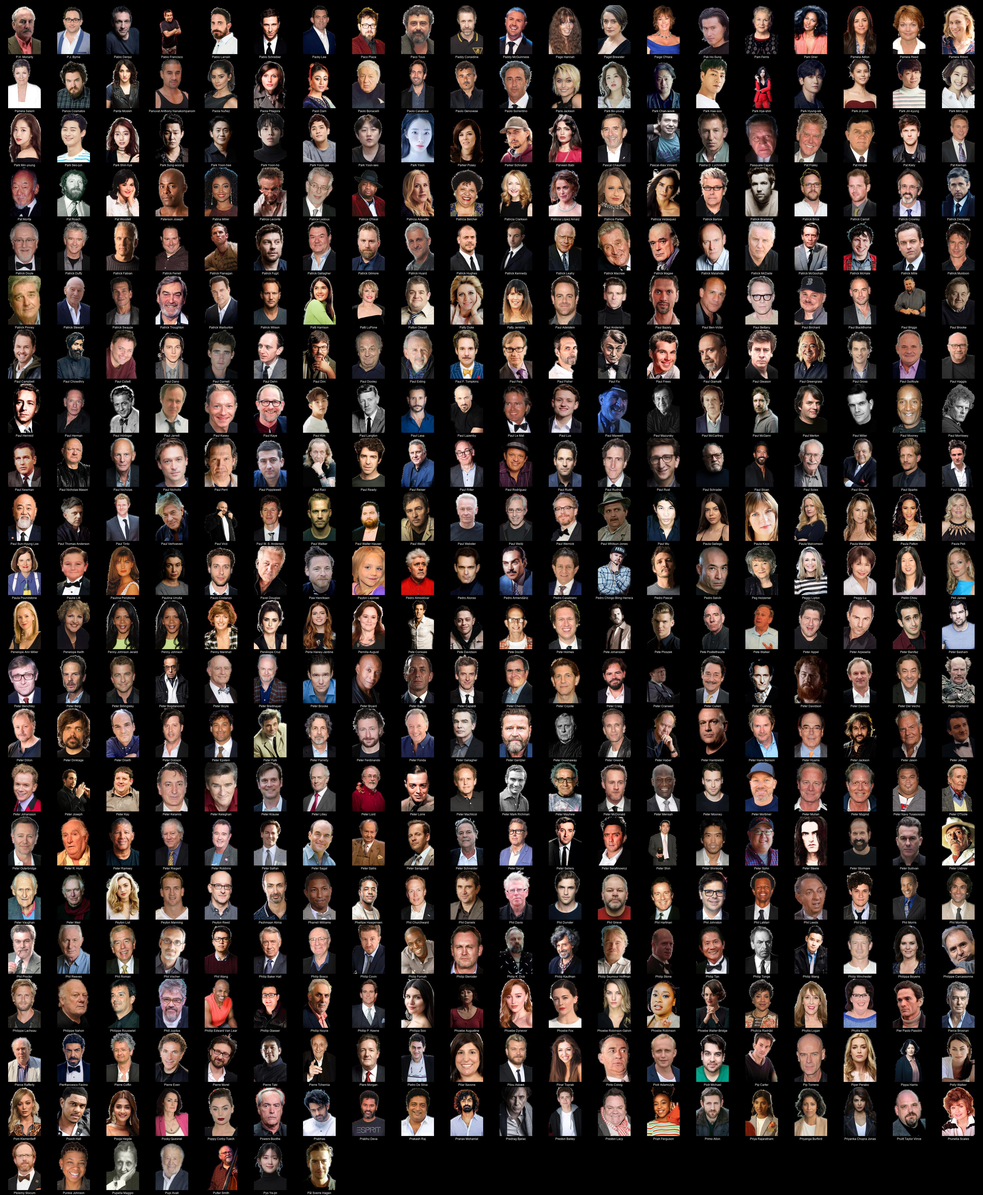
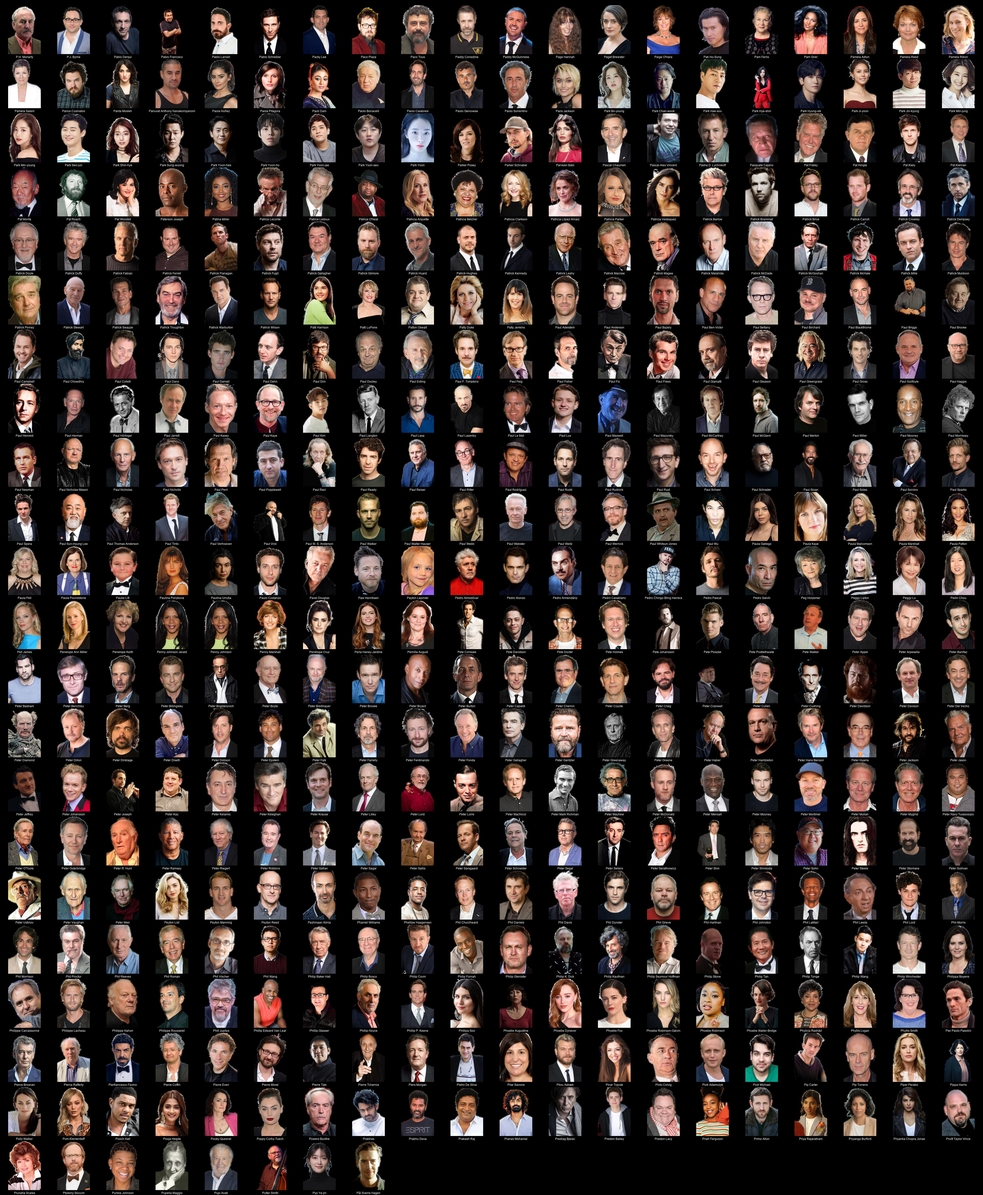
more grids

Changed region(s): [[0.0, 0.3728, 1.0, 1.0]]

diff --git a/M/README.md b/M/README.md
@@ -1,4 +1,4 @@
-# Kometa People Images - Transparent (transparent) - M (1024 Images)
+# Kometa People Images - Transparent (transparent) - M (1031 Images)
 ![Grid](grid.jpg)
 
 * [M'laah Kaur Singh](https://raw.githubusercontent.com/Kometa-Team/People-Images-transparent/master/M/Images/M%27laah%20Kaur%20Singh.png)
@@ -58,6 +58,7 @@
 * [Mahesh Babu](https://raw.githubusercontent.com/Kometa-Team/People-Images-transparent/master/M/Images/Mahesh%20Babu.png)
 * [Mahesh Balraj](https://raw.githubusercontent.com/Kometa-Team/People-Images-transparent/master/M/Images/Mahesh%20Balraj.png)
 * [Mahesh Bhatt](https://raw.githubusercontent.com/Kometa-Team/People-Images-transparent/master/M/Images/Mahesh%20Bhatt.png)
+* [Mahiro Maeda](https://raw.githubusercontent.com/Kometa-Team/People-Images-transparent/master/M/Images/Mahiro%20Maeda.png)
 * [Mahito Tsujimura](https://raw.githubusercontent.com/Kometa-Team/People-Images-transparent/master/M/Images/Mahito%20Tsujimura.png)
 * [Mai Ling](https://raw.githubusercontent.com/Kometa-Team/People-Images-transparent/master/M/Images/Mai%20Ling.png)
 * [Mai Roppongi](https://raw.githubusercontent.com/Kometa-Team/People-Images-transparent/master/M/Images/Mai%20Roppongi.png)
@@ -395,6 +396,7 @@
 * [Masato Yamanouchi](https://raw.githubusercontent.com/Kometa-Team/People-Images-transparent/master/M/Images/Masato%20Yamanouchi.png)
 * [Masaya Katô](https://raw.githubusercontent.com/Kometa-Team/People-Images-transparent/master/M/Images/Masaya%20Kat%C3%B4.png)
 * [Masayuki Akasaka](https://raw.githubusercontent.com/Kometa-Team/People-Images-transparent/master/M/Images/Masayuki%20Akasaka.png)
+* [Masayuki Kojima](https://raw.githubusercontent.com/Kometa-Team/People-Images-transparent/master/M/Images/Masayuki%20Kojima.png)
 * [Masayuki Mori](https://raw.githubusercontent.com/Kometa-Team/People-Images-transparent/master/M/Images/Masayuki%20Mori.png)
 * [Masha Mashkova](https://raw.githubusercontent.com/Kometa-Team/People-Images-transparent/master/M/Images/Masha%20Mashkova.png)
 * [Masi Oka](https://raw.githubusercontent.com/Kometa-Team/People-Images-transparent/master/M/Images/Masi%20Oka.png)
@@ -693,6 +695,7 @@
 * [Michael Herbig](https://raw.githubusercontent.com/Kometa-Team/People-Images-transparent/master/M/Images/Michael%20Herbig.png)
 * [Michael Herz](https://raw.githubusercontent.com/Kometa-Team/People-Images-transparent/master/M/Images/Michael%20Herz.png)
 * [Michael Hogan](https://raw.githubusercontent.com/Kometa-Team/People-Images-transparent/master/M/Images/Michael%20Hogan.png)
+* [Michael Hordern](https://raw.githubusercontent.com/Kometa-Team/People-Images-transparent/master/M/Images/Michael%20Hordern.png)
 * [Michael Horse](https://raw.githubusercontent.com/Kometa-Team/People-Images-transparent/master/M/Images/Michael%20Horse.png)
 * [Michael Hunter](https://raw.githubusercontent.com/Kometa-Team/People-Images-transparent/master/M/Images/Michael%20Hunter.png)
 * [Michael Ian Black](https://raw.githubusercontent.com/Kometa-Team/People-Images-transparent/master/M/Images/Michael%20Ian%20Black.png)
@@ -835,6 +838,7 @@
 * [Michelle Wong](https://raw.githubusercontent.com/Kometa-Team/People-Images-transparent/master/M/Images/Michelle%20Wong.png)
 * [Michelle Yeoh](https://raw.githubusercontent.com/Kometa-Team/People-Images-transparent/master/M/Images/Michelle%20Yeoh.png)
 * [Michiko Nishiwaki](https://raw.githubusercontent.com/Kometa-Team/People-Images-transparent/master/M/Images/Michiko%20Nishiwaki.png)
+* [Michiyo Yanagisawa](https://raw.githubusercontent.com/Kometa-Team/People-Images-transparent/master/M/Images/Michiyo%20Yanagisawa.png)
 * [Mick Ebeling](https://raw.githubusercontent.com/Kometa-Team/People-Images-transparent/master/M/Images/Mick%20Ebeling.png)
 * [Mick Szal](https://raw.githubusercontent.com/Kometa-Team/People-Images-transparent/master/M/Images/Mick%20Szal.png)
 * [Mick Wingert](https://raw.githubusercontent.com/Kometa-Team/People-Images-transparent/master/M/Images/Mick%20Wingert.png)
@@ -871,6 +875,7 @@
 * [Mike Epps](https://raw.githubusercontent.com/Kometa-Team/People-Images-transparent/master/M/Images/Mike%20Epps.png)
 * [Mike Flanagan](https://raw.githubusercontent.com/Kometa-Team/People-Images-transparent/master/M/Images/Mike%20Flanagan.png)
 * [Mike Goodwin](https://raw.githubusercontent.com/Kometa-Team/People-Images-transparent/master/M/Images/Mike%20Goodwin.png)
+* [Mike Grady](https://raw.githubusercontent.com/Kometa-Team/People-Images-transparent/master/M/Images/Mike%20Grady.png)
 * [Mike Hatton](https://raw.githubusercontent.com/Kometa-Team/People-Images-transparent/master/M/Images/Mike%20Hatton.png)
 * [Mike Henry](https://raw.githubusercontent.com/Kometa-Team/People-Images-transparent/master/M/Images/Mike%20Henry.png)
 * [Mike Holmes Jr.](https://raw.githubusercontent.com/Kometa-Team/People-Images-transparent/master/M/Images/Mike%20Holmes%20Jr..png)
@@ -878,6 +883,7 @@
 * [Mike Judge](https://raw.githubusercontent.com/Kometa-Team/People-Images-transparent/master/M/Images/Mike%20Judge.png)
 * [Mike Kellin](https://raw.githubusercontent.com/Kometa-Team/People-Images-transparent/master/M/Images/Mike%20Kellin.png)
 * [Mike Leigh](https://raw.githubusercontent.com/Kometa-Team/People-Images-transparent/master/M/Images/Mike%20Leigh.png)
+* [Mike Lockwood](https://raw.githubusercontent.com/Kometa-Team/People-Images-transparent/master/M/Images/Mike%20Lockwood.png)
 * [Mike Mitchell](https://raw.githubusercontent.com/Kometa-Team/People-Images-transparent/master/M/Images/Mike%20Mitchell.png)
 * [Mike Myers](https://raw.githubusercontent.com/Kometa-Team/People-Images-transparent/master/M/Images/Mike%20Myers.png)
 * [Mike Müller](https://raw.githubusercontent.com/Kometa-Team/People-Images-transparent/master/M/Images/Mike%20M%C3%BCller.png)
@@ -998,6 +1004,7 @@
 * [Morgan Spurlock](https://raw.githubusercontent.com/Kometa-Team/People-Images-transparent/master/M/Images/Morgan%20Spurlock.png)
 * [Morgan Turner](https://raw.githubusercontent.com/Kometa-Team/People-Images-transparent/master/M/Images/Morgan%20Turner.png)
 * [Morgana King](https://raw.githubusercontent.com/Kometa-Team/People-Images-transparent/master/M/Images/Morgana%20King.png)
+* [Moritz Bleibtreu](https://raw.githubusercontent.com/Kometa-Team/People-Images-transparent/master/M/Images/Moritz%20Bleibtreu.png)
 * [Moritz Jahn](https://raw.githubusercontent.com/Kometa-Team/People-Images-transparent/master/M/Images/Moritz%20Jahn.png)
 * [Moritz Klaus](https://raw.githubusercontent.com/Kometa-Team/People-Images-transparent/master/M/Images/Moritz%20Klaus.png)
 * [Moritz Wagner](https://raw.githubusercontent.com/Kometa-Team/People-Images-transparent/master/M/Images/Moritz%20Wagner.png)

diff --git a/P/README.md b/P/README.md
@@ -1,4 +1,4 @@
-# Kometa People Images - Transparent (transparent) - P (427 Images)
+# Kometa People Images - Transparent (transparent) - P (428 Images)
 ![Grid](grid.jpg)
 
 * [P.H. Moriarty](https://raw.githubusercontent.com/Kometa-Team/People-Images-transparent/master/P/Images/P.H.%20Moriarty.png)
@@ -175,6 +175,7 @@
 * [Paul Rudd](https://raw.githubusercontent.com/Kometa-Team/People-Images-transparent/master/P/Images/Paul%20Rudd.png)
 * [Paul Rudnick](https://raw.githubusercontent.com/Kometa-Team/People-Images-transparent/master/P/Images/Paul%20Rudnick.png)
 * [Paul Rust](https://raw.githubusercontent.com/Kometa-Team/People-Images-transparent/master/P/Images/Paul%20Rust.png)
+* [Paul Scheer](https://raw.githubusercontent.com/Kometa-Team/People-Images-transparent/master/P/Images/Paul%20Scheer.png)
 * [Paul Schrader](https://raw.githubusercontent.com/Kometa-Team/People-Images-transparent/master/P/Images/Paul%20Schrader.png)
 * [Paul Sloan](https://raw.githubusercontent.com/Kometa-Team/People-Images-transparent/master/P/Images/Paul%20Sloan.png)
 * [Paul Soles](https://raw.githubusercontent.com/Kometa-Team/People-Images-transparent/master/P/Images/Paul%20Soles.png)
